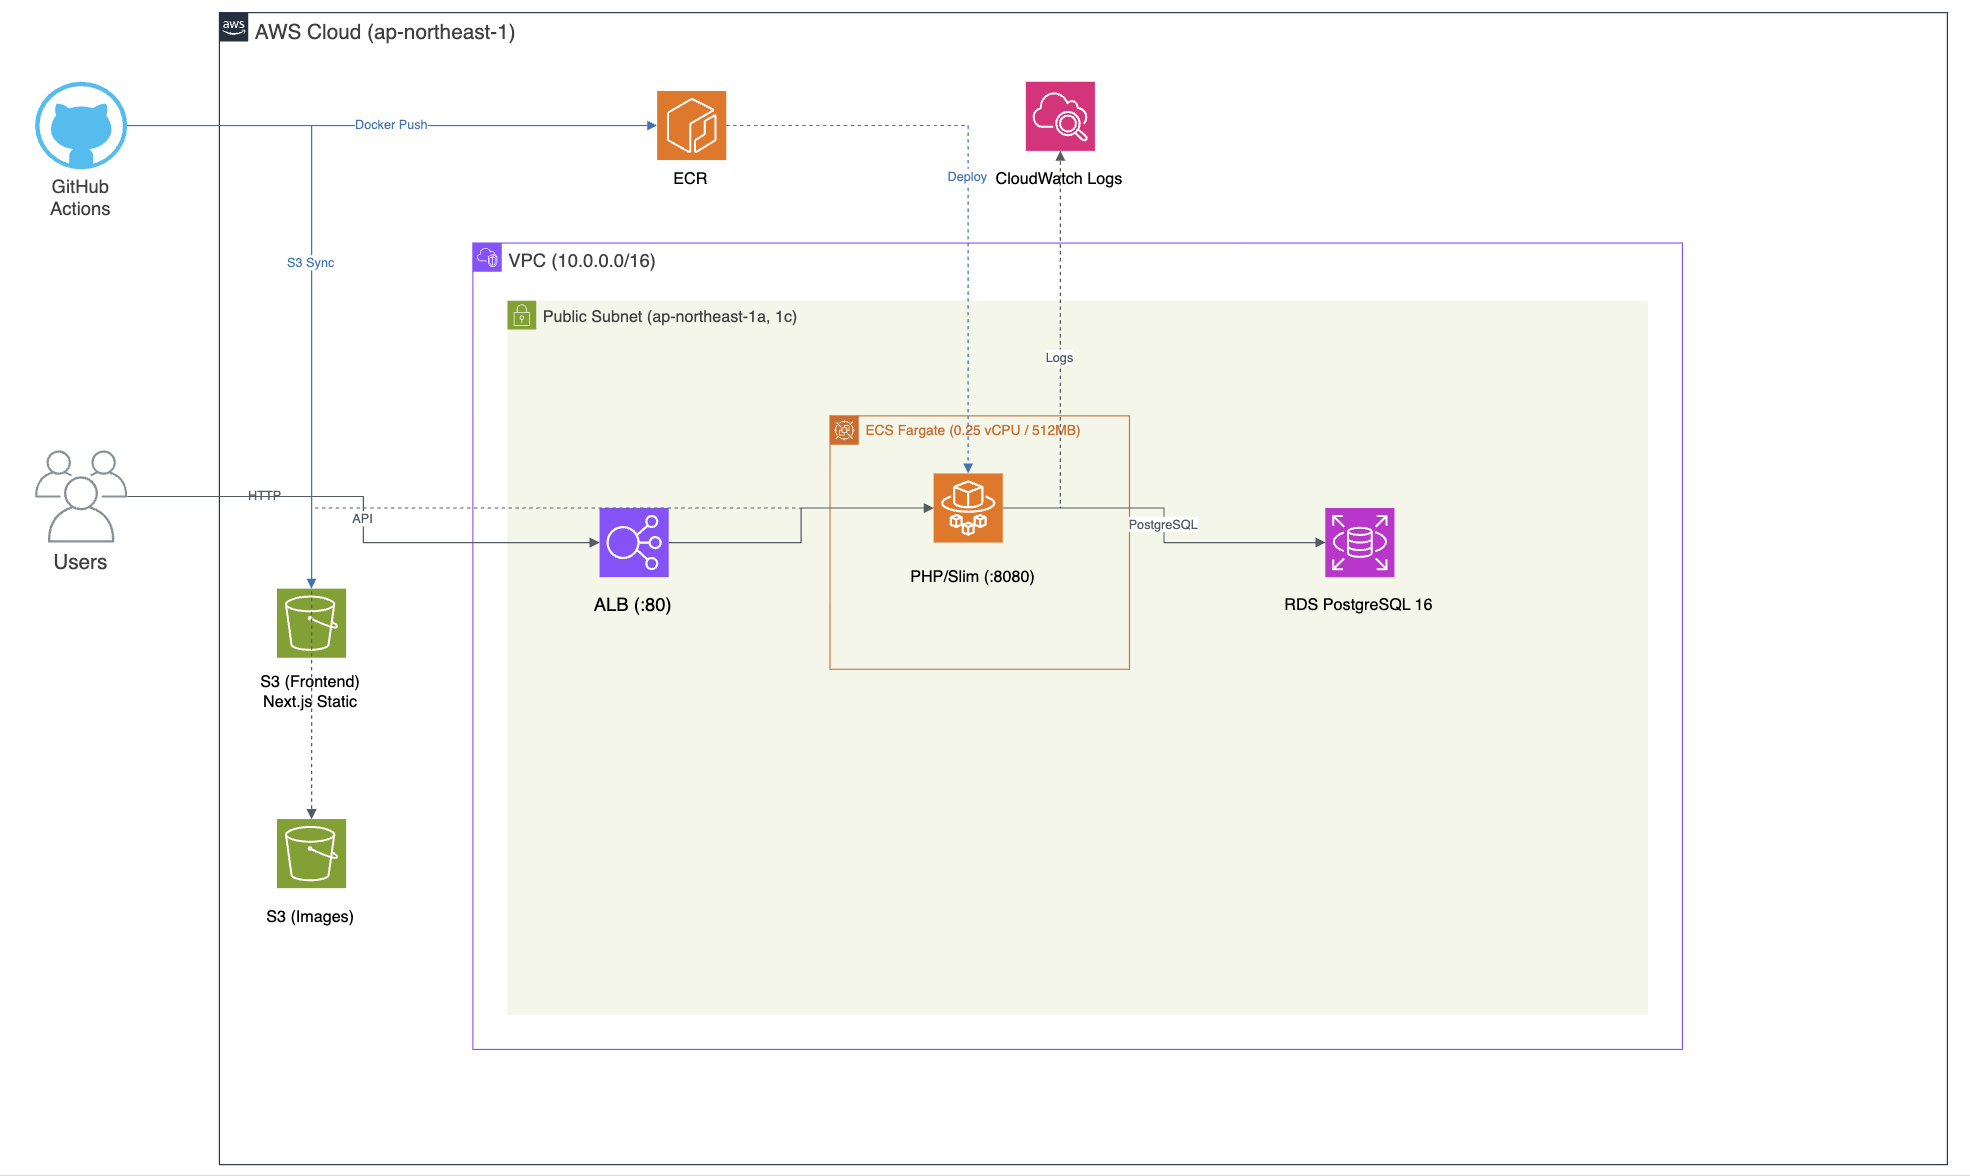
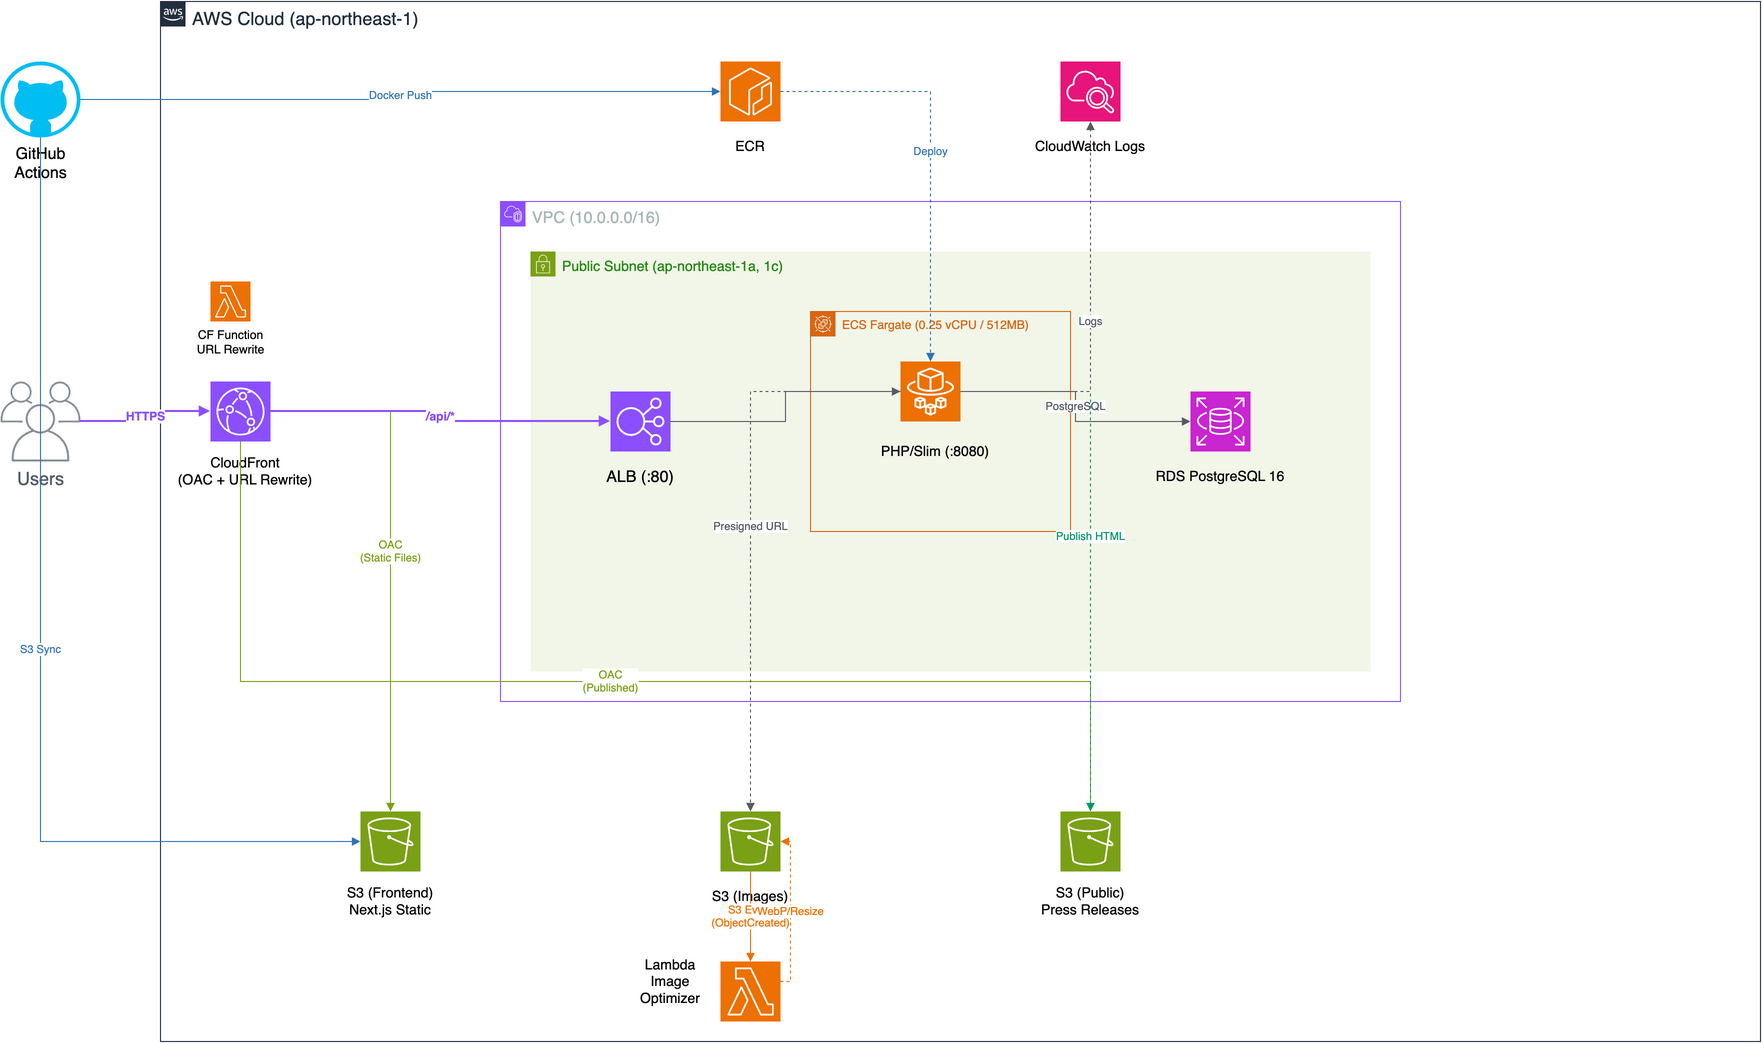
docs: README更新とAWS構成図の反映
- APIエンドポイントにコメント・会社・カテゴリAPIを追加
- CloudFront統一構成に合わせてURL・fetch例・Mermaid図を更新
- 技術スタックにTanStack Query・Lambda・CloudFrontを追加
- AWS構成図PNGを最新のdraw.ioから再生成

diff --git a/README.md b/README.md
@@ -6,9 +6,8 @@
 
 | 環境 | URL |
 |------|-----|
-| フロントエンド (S3) | http://early-riser-frontend-726725835302.s3-website-ap-northeast-1.amazonaws.com |
+| フロントエンド + API (CloudFront) | https://d3ouxk9k9sbb2.cloudfront.net |
 | バックエンド API (ALB) | http://early-riser-alb-771564224.ap-northeast-1.elb.amazonaws.com |
-| 公開プレスリリース (CloudFront) | https://d3ouxk9k9sbb2.cloudfront.net |
 
 ## API エンドポイント
 
@@ -16,18 +15,24 @@
 |----------|------|------|
 | GET | `/api/press-releases/{id}` | プレスリリース取得 |
 | POST | `/api/press-releases/{id}` | プレスリリース保存 |
+| POST | `/api/press-releases/{id}/publish` | プレスリリース公開URL生成 |
+| GET | `/api/comments/{id}` | コメント取得 |
+| POST | `/api/comments/{id}` | コメント保存 |
 | POST | `/api/images/presigned-url` | 画像アップロード用プリサインURL取得 |
 | GET | `/api/templates` | テンプレート一覧取得 |
 | POST | `/api/templates` | テンプレート保存 |
 | DELETE | `/api/templates/{id}` | テンプレート削除 |
 | GET | `/api/ogp?url=...` | OGP情報取得 |
-| POST | `/api/press-releases/{id}/publish` | プレスリリース公開URL生成 |
+| POST | `/api/companies` | 会社情報作成 |
+| GET | `/api/companies/{id}` | 会社情報取得 |
+| PUT | `/api/companies/{id}` | 会社情報更新 |
+| GET | `/api/press-release-categories` | カテゴリ一覧取得 |
+| POST | `/api/proofread` | AI誤字修正 |
+| POST | `/api/ai/generate` | AIテンプレート生成 |
 | POST | `/api/ai/suggest-titles` | AIタイトル提案 |
 | POST | `/api/ai/analyze-tone` | AIトーン分析 |
 | GET | `/api/ai/sections` | セクションガイド定義取得 |
 | POST | `/api/ai/generate-section` | AIセクション文章生成 |
-| POST | `/api/proofread` | AI誤字修正 |
-| POST | `/api/ai/generate` | AIテンプレート生成 |
 | GET | `/api/chat/{id}/history` | AIチャット履歴取得 |
 | POST | `/api/chat/{id}` | AIチャット (SSE) |
 | GET | `/` | ヘルスチェック |
@@ -36,11 +41,11 @@
 
 ```typescript
 // プレスリリース取得
-const res = await fetch("http://early-riser-alb-771564224.ap-northeast-1.elb.amazonaws.com/api/press-releases/1");
+const res = await fetch("https://d3ouxk9k9sbb2.cloudfront.net/api/press-releases/1");
 const data = await res.json();
 
 // プレスリリース保存
-await fetch("http://early-riser-alb-771564224.ap-northeast-1.elb.amazonaws.com/api/press-releases/1", {
+await fetch("https://d3ouxk9k9sbb2.cloudfront.net/api/press-releases/1", {
   method: "POST",
   headers: { "Content-Type": "application/json" },
   body: JSON.stringify({ title: "タイトル", content: "コンテンツJSON" }),
@@ -51,7 +56,7 @@ await fetch("http://early-riser-alb-771564224.ap-northeast-1.elb.amazonaws.com/a
 
 ```typescript
 // 1. プリサインURLを取得
-const res = await fetch("http://early-riser-alb-771564224.ap-northeast-1.elb.amazonaws.com/api/images/presigned-url", {
+const res = await fetch("https://d3ouxk9k9sbb2.cloudfront.net/api/images/presigned-url", {
   method: "POST",
   headers: { "Content-Type": "application/json" },
   body: JSON.stringify({ contentType: "image/png", fileName: "photo.png" }),
@@ -83,8 +88,12 @@ graph TB
     end
 
     subgraph AWS["AWS (ap-northeast-1)"]
+        subgraph CDN["CDN / エントリポイント"]
+            CF["CloudFront<br/>OAC + URL Rewrite<br/>CF Function"]
+        end
+
         subgraph Frontend["フロントエンド"]
-            S3_FE["S3 Static Hosting<br/>Next.js 静的ファイル"]
+            S3_FE["S3<br/>Next.js 静的ファイル"]
         end
 
         subgraph Backend["バックエンド"]
@@ -98,10 +107,6 @@ graph TB
             RDS["RDS PostgreSQL 16<br/>press_releases / templates"]
             S3_IMG["S3<br/>画像バケット"]
             S3_PUB["S3<br/>公開プレスリリース"]
-        end
-
-        subgraph CDN["CDN"]
-            CF["CloudFront<br/>OAC"]
         end
 
         subgraph Serverless["サーバーレス"]
@@ -118,15 +123,15 @@ graph TB
         Actions["GitHub Actions<br/>OIDC認証"]
     end
 
-    Browser -->|"HTML/JS/CSS取得"| S3_FE
-    Browser -->|"API リクエスト"| ALB
+    Browser -->|"HTTPS"| CF
+    CF -->|"OAC<br/>(静的ファイル)"| S3_FE
+    CF -->|"/api/*<br/>プロキシ"| ALB
+    CF -->|"OAC<br/>(公開ページ)"| S3_PUB
     Browser -->|"画像を直接PUT<br/>(プリサインURL)"| S3_IMG
-    Browser -->|"公開ページ閲覧<br/>(HTTPS)"| CF
     ALB --> PHP
     PHP -->|"CRUD"| RDS
     PHP -->|"プリサインURL生成"| S3_IMG
     PHP -->|"公開HTML生成"| S3_PUB
-    CF -->|"OAC"| S3_PUB
     S3_IMG -->|"S3イベント"| Lambda
     Lambda -->|"WebP変換<br/>リサイズ"| S3_IMG
     Repo -->|"push / merge"| Actions
@@ -140,6 +145,7 @@ graph TB
 ```mermaid
 sequenceDiagram
     participant B as ブラウザ
+    participant CF as CloudFront
     participant S3F as S3 (フロントエンド)
     participant ALB as ALB
     participant API as PHP API (ECS)
@@ -147,43 +153,45 @@ sequenceDiagram
     participant S3I as S3 (画像)
 
     Note over B,S3F: ページ読み込み
-    B->>S3F: GET (HTML/JS/CSS)
-    S3F-->>B: 静的ファイル
+    B->>CF: HTTPS GET /editor
+    CF->>CF: CF Function (URL Rewrite)
+    CF->>S3F: OAC GET /editor.html
+    S3F-->>CF: 静的ファイル
+    CF-->>B: HTML/JS/CSS
 
     Note over B,DB: プレスリリース取得・保存
-    B->>ALB: GET /api/press-releases/1
+    B->>CF: GET /api/press-releases/1
+    CF->>ALB: /api/* プロキシ
     ALB->>API: リクエスト転送
     API->>DB: SELECT
     DB-->>API: データ
     API-->>B: JSON レスポンス
 
-    B->>ALB: POST /api/press-releases/1
+    B->>CF: POST /api/press-releases/1
+    CF->>ALB: /api/* プロキシ
     ALB->>API: リクエスト転送
     API->>DB: UPDATE
     API-->>B: 保存完了
 
     Note over B,S3I: 画像アップロード
-    B->>ALB: POST /api/images/presigned-url
+    B->>CF: POST /api/images/presigned-url
+    CF->>ALB: /api/* プロキシ
     ALB->>API: リクエスト転送
     API->>S3I: プリサインURL生成
     S3I-->>API: 署名付きURL
     API-->>B: {uploadUrl, imageUrl}
     B->>S3I: PUT (画像バイナリ直接アップロード)
-
-    Note over B,DB: テンプレート操作
-    B->>ALB: GET /api/templates
-    ALB->>API: リクエスト転送
-    API->>DB: SELECT
-    API-->>B: テンプレート一覧
 ```
 
 ## 技術スタック
 
 | レイヤー | 技術 |
 |----------|------|
-| フロントエンド | Next.js 16 (Static Export) / React / TipTap Editor |
+| フロントエンド | Next.js 16 (Static Export) / React / TipTap Editor / TanStack Query |
 | バックエンド | PHP 8.5 / Slim Framework 4 |
 | データベース | PostgreSQL 16 (RDS) |
+| CDN | CloudFront (OAC + CF Function URL Rewrite) |
+| 画像最適化 | Lambda (Python / Pillow) |
 | インフラ | AWS (ECS Fargate, ALB, S3, RDS, ECR, Lambda, CloudFront) |
 | CI/CD | GitHub Actions (OIDC認証) |
 
@@ -194,7 +202,7 @@ PRを main にマージすると自動デプロイが実行されます。
 | ワークフロー | トリガー | デプロイ先 |
 |-------------|----------|-----------|
 | `deploy-backend.yml` | `webapp/php/**` の変更 | ECR → ECS Fargate |
-| `deploy-frontend.yml` | `webapp/nextjs/**` の変更 | S3 Static Hosting |
+| `deploy-frontend.yml` | `webapp/nextjs/**` の変更 | S3 → CloudFront |
 
 ## ローカル開発
 
@@ -213,9 +221,10 @@ npm run dev
 ## 環境変数
 
 フロントエンド（ビルド時）:
-- `NEXT_PUBLIC_API_URL` - バックエンド API の URL
+- `NEXT_PUBLIC_API_URL` - バックエンド API の URL（CloudFront URL）
 
 バックエンド（ECS タスク定義 / GitHub Secrets & Variables）:
 - `DB_HOST` / `DB_PORT` / `DB_DATABASE` / `DB_USERNAME` / `DB_PASSWORD`
 - `APP_ENV` / `APP_KEY`
 - `AWS_BUCKET_IMAGES` / `AWS_BUCKET_IMAGES_URL`
+- `OPENAI_API_KEY`
